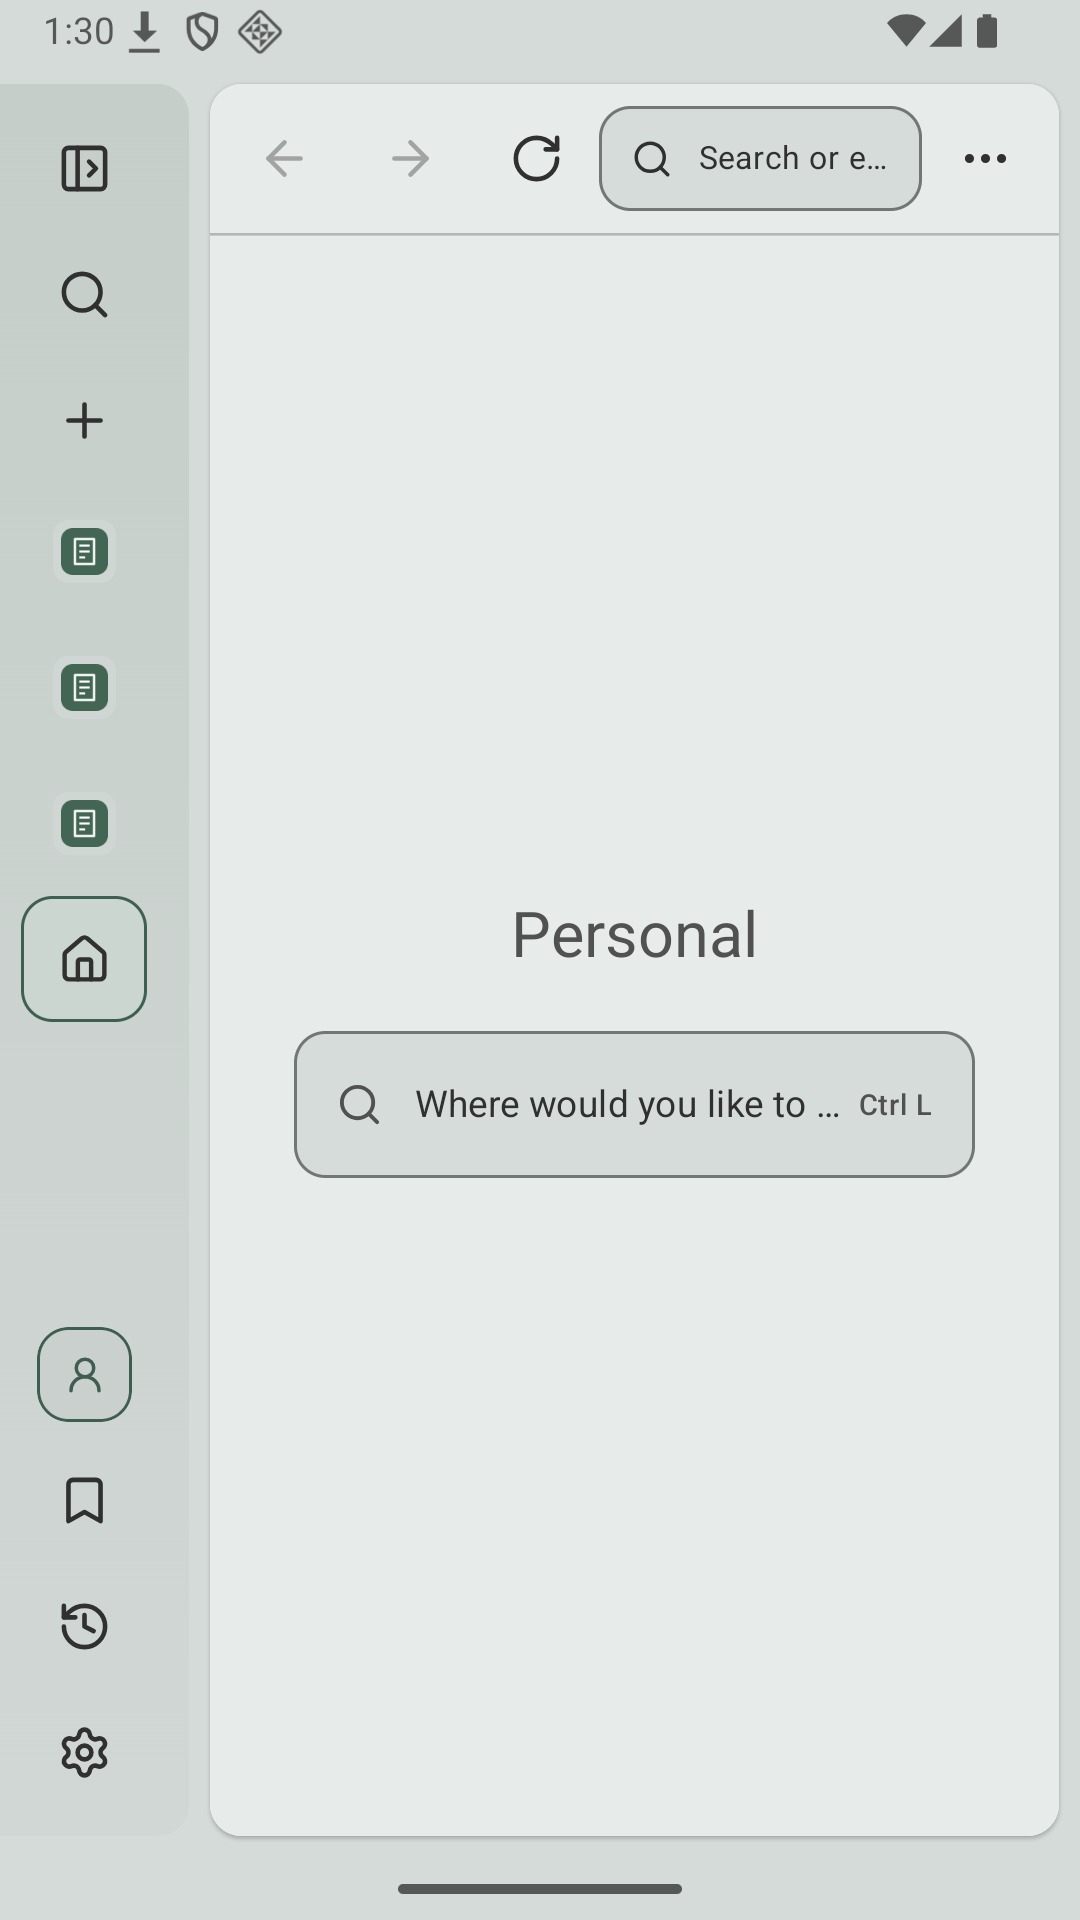
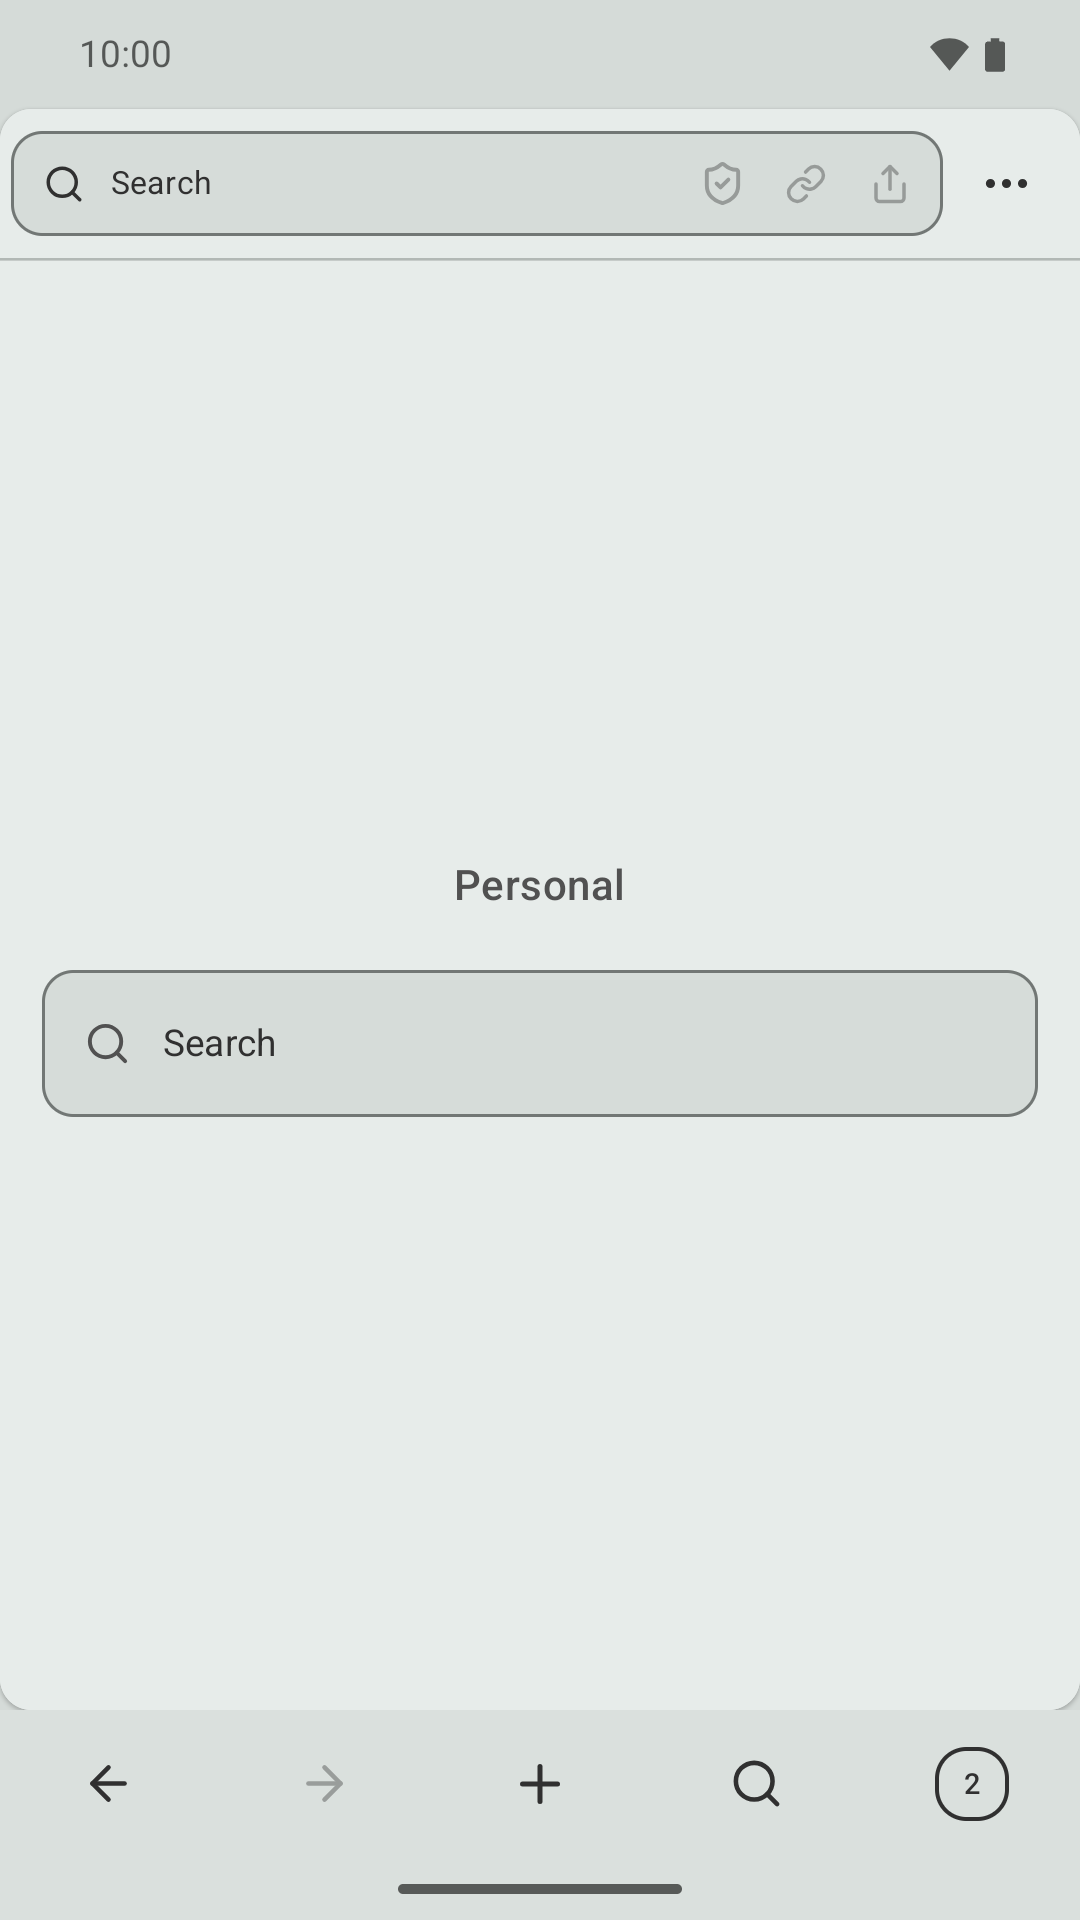
Refresh Play Store phone screenshots for Nagi 1.0.0

diff --git a/docs/PLAY_CONSOLE.md b/docs/PLAY_CONSOLE.md
@@ -4,6 +4,17 @@
 
 Nagi 1.0.0 (`com.takeruf.nagi`, versionCode 8, targetSdk 36) was submitted to the existing Alpha track with four-language release notes and store descriptions. The recorded Console state was **Changes in review**, with Alpha **Active** and 0.3.0 still available to selected testers. Tester selection, feedback address, join links, and all 178 country/region rows were unchanged. Submission does not establish approval or delivery to testers.
 
+## Phone screenshots refreshed for 1.0.0
+
+On 2026-10-11, the two old phone captures were replaced with four unedited screenshots of the signed **Play Release 1.0.0**, built from `a6ea681`. Captures use the clean API-36 `Nagi_Store_Phone` emulator at 1080×1920 pixels / 420dpi (a compact window), English UI, and a demo status bar. Store order:
+
+1. [Mobile browsing](play-store/phone-browsing.png): the live [Wikipedia Earth page](https://en.wikipedia.org/wiki/Earth), with the address actions and bottom navigation.
+2. [Home](play-store/phone-home.png): full-width new-tab screen and bottom controls.
+3. [Tabs](play-store/phone-tabs.png): the compact sheet with Favorites, tabs, Spaces, History, and Settings.
+4. [Settings](play-store/phone-settings.png): current search and AI-engine settings without the old phone sidebar.
+
+English is the common image source; Japanese, Simplified Chinese, and Korean were each checked to inherit the same four images in the same order. Tablet screenshots, branding, descriptions, and release settings were not edited. The Console change is **Change Phone screenshots**. Saving and submitting it restarted the existing 1.0.0 review; the resulting **Changes in review** section showed automated quick checks still running. This is submission proof, not approval or live-store proof. [Console evidence](play-store/console-phone-screenshots-100-review.jpg).
+
 See [1.0.0 publication verification](RELEASE_1.0.0_VERIFICATION.md) for the dated evidence. The declaration guidance and listing copy below support future submissions; check them against the exact uploaded artifact and current Console forms.
 
 ## Upload and signing
